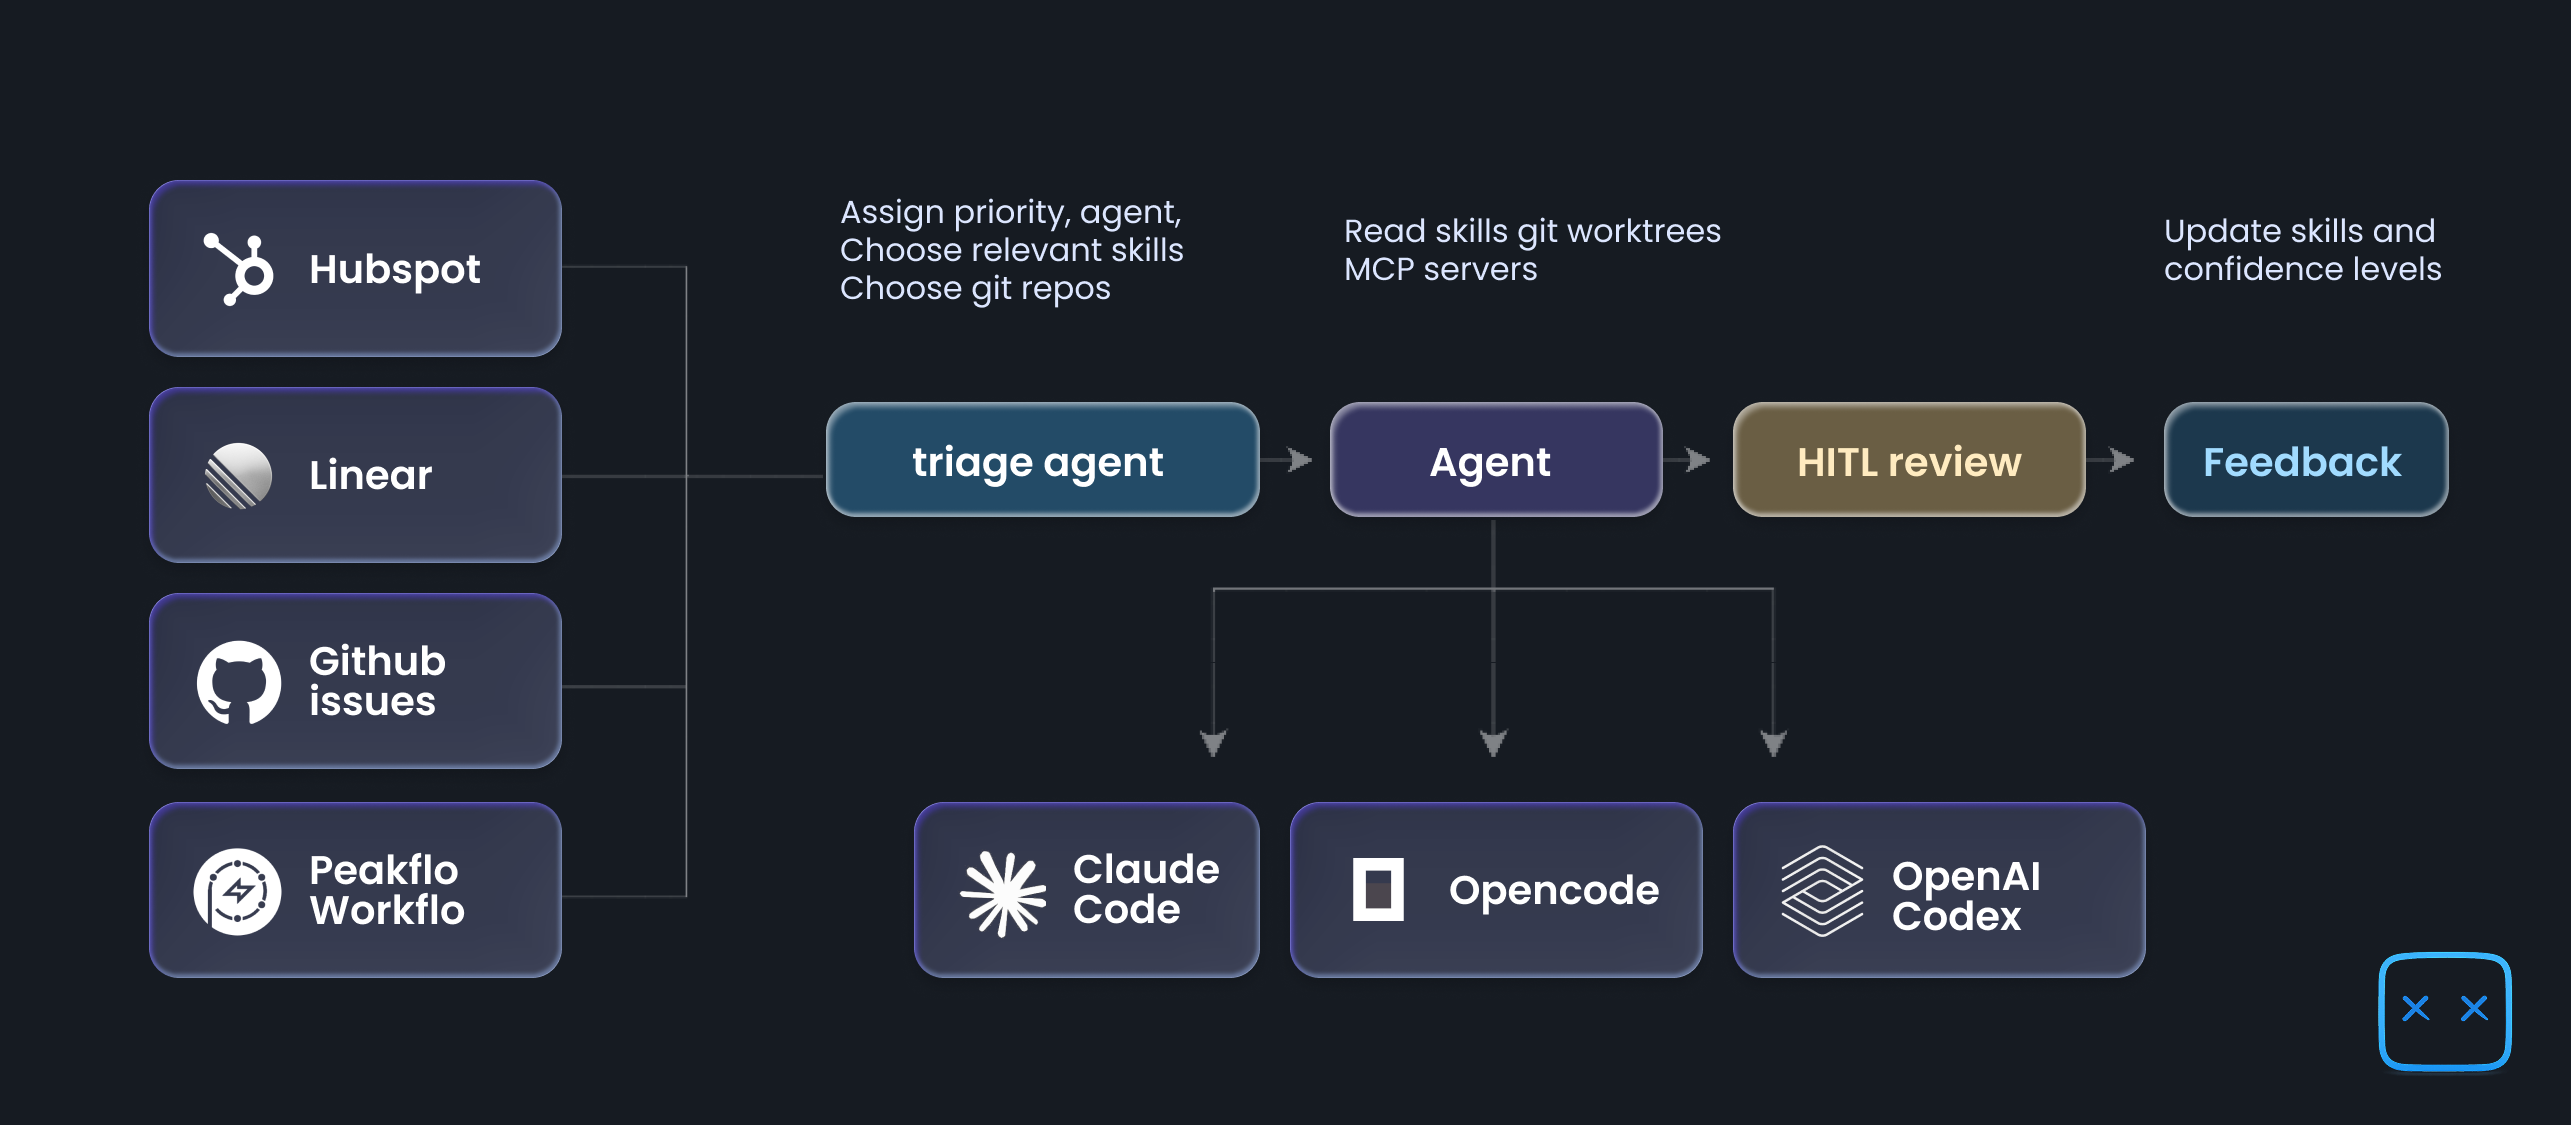
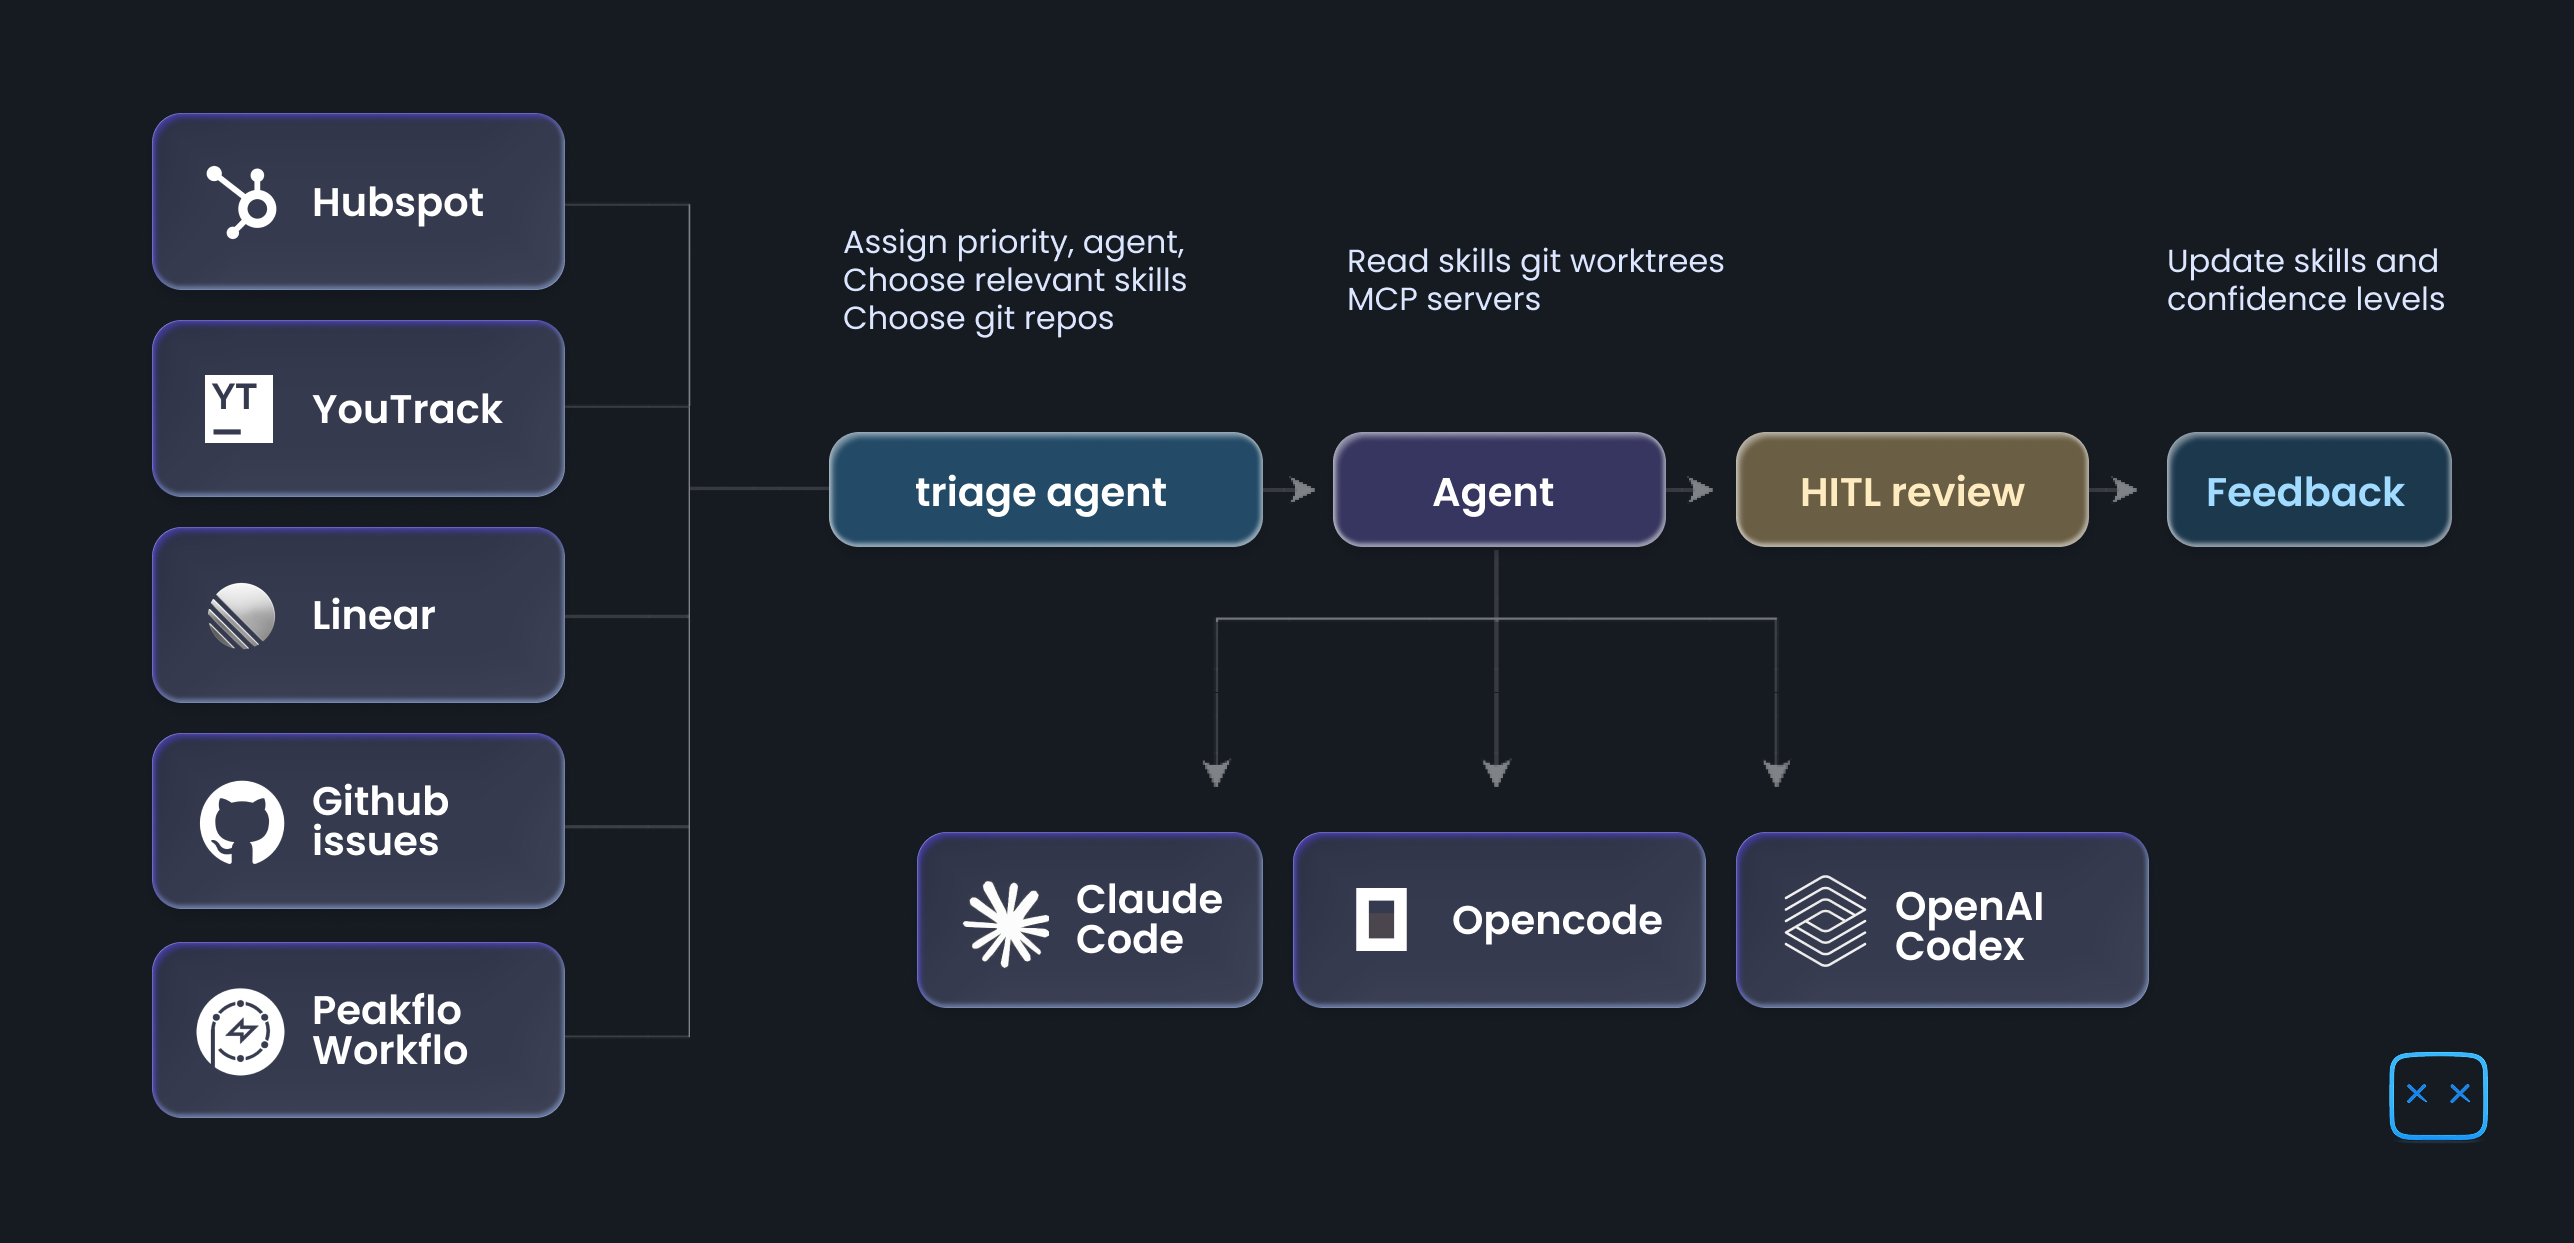
docs: update README with new features and refreshed visuals
Reflect recently shipped functionality including Dashboard workspace,
GitLab/YouTrack/Notion/GitHub Issues integrations, subtask support,
Windows/Linux platform support, task snoozing, heartbeat monitoring,
skills 2-way sync, and new agent models. Replace process and
integrations diagrams with updated visuals. Update platform badge
and build commands for cross-platform support.

diff --git a/README.md b/README.md
@@ -6,12 +6,12 @@
 
 [![License: MIT](https://img.shields.io/badge/License-MIT-yellow.svg)](./LICENSE)
 [![Version](https://img.shields.io/github/package-json/v/peakflo/20x)](./package.json)
-[![Platform](https://img.shields.io/badge/platform-macOS-lightgrey.svg)](.)
+[![Platform](https://img.shields.io/badge/platform-macOS%20%7C%20Windows%20%7C%20Linux-lightgrey.svg)](.)
 [![Discord](https://img.shields.io/badge/Discord-Join%20us-5865F2?logo=discord&logoColor=white)](https://discord.gg/fUVsqTWDxX)
 
 **One app. All your tasks. Powered by AI agents.**
 
-20x is a desktop app that turns your task list into an AI-powered workforce. Connect your tools — Linear, HubSpot, Peakflo — assign tasks to AI agents, and watch them work in real time.
+20x is a desktop app that turns your task list into an AI-powered workforce. Connect your tools — Linear, HubSpot, YouTrack, GitLab, Notion, Peakflo — assign tasks to AI agents, and watch them work in real time.
 
 **No cloud. No subscriptions. Everything runs on your machine.**
 
@@ -30,60 +30,87 @@ Most AI tools make you copy-paste context between tabs. 20x flips it: **your tas
 ## How It Works
 
 <p align="center">
-  <img src="resources/process.png" alt="20x process: Hubspot, Linear, Github issues, Workflo → 20x ↔ Github, MCP → Claude Code, Opencode, OpenAI Codex; Skills automatically improved" />
+  <img src="resources/process.png" alt="20x process: Hubspot, YouTrack, Linear, Github issues, Peakflo Workflo → triage agent → Agent (Claude Code, Opencode, OpenAI Codex) → HITL review → Feedback" />
 </p>
 
-1. **Tasks flow in** — from Task sources (Linear, Hubspot, Github, Workflo) or created manually
-2. **Triage agent** — Assigns Coding agent (Claude Code, OpenCode, or Codex), relevant skills
-3. **Agent works the task** — with live streaming output, Questions and HITL support 
-4. **You stay in control** — approve, review, merge
-5. **Feedback loop** — Agent creates updates the skills after task is completed
+1. **Tasks flow in** — from Linear, YouTrack, HubSpot, GitHub Issues, Notion, Peakflo Workflo, or created manually
+2. **Triage agent** — Assigns priority, coding agent (Claude Code, OpenCode, or Codex), relevant skills, and git repos
+3. **Agent works the task** — reads skills, git worktrees, and MCP servers; streams output in real time
+4. **HITL review** — Agents pause for human approval before risky actions
+5. **Feedback loop** — Skills and confidence levels are automatically updated after completion
 
 ## Features
 
 <p align="center">
-  <img src="resources/integrations.png" alt="20x integrations: Hubspot, Linear, Github issues, Workflo → 20x ↔ Github, MCP → Claude Code, Opencode, OpenAI Codex; Skills automatically improved" />
+  <img src="resources/integrations.png" alt="20x integrations: Hubspot, YouTrack, Linear, Github issues, Peakflo Workflo → 20x ↔ GitLab, Github, MCP → Claude Code, Opencode, OpenAI Codex; Skills automatically improved" />
 </p>
 
+### 📊 Dashboard Workspace
+- **Overview dashboard** — See task completion stats, AI autonomy metrics, and agent success rates at a glance
+- **Kanban task board** — Tasks grouped by status with drag-and-drop support
+- **Workflow applications** — Launch and manage workflow apps directly from the dashboard
+- **Presetup wizard** — Guided templates to get started quickly with new applications
+
 ### 🤖 Multi-Agent Support
-- **Claude Code** — Anthropic's official agent SDK
+- **Claude Code** — Anthropic's official agent SDK (Claude Sonnet 4.6)
 - **OpenCode** — Open-source coding agent
-- **Codex** — Zed Industries' agent framework
-- **Live transcripts** — Watch agents think and work in real time
+- **Codex** — OpenAI's agent framework (GPT-5.4)
+- **Live transcripts** — Watch agents think and work in real time with message counts
 - **Human-in-the-loop** — Approve risky actions before execution
+- **Task progress tracking** — Real-time progress events during agent execution
 
 ### 🔗 Smart Integrations
 - **Linear** — Pull issues, update status, post comments
 - **HubSpot** — Sync tickets and workflows
-- **Peakflo** — Connect your Peakflo tasks
+- **YouTrack** — Connect JetBrains YouTrack projects and tasks
+- **GitLab** — Full GitLab integration for task sourcing and repositories
+- **Notion** — Sync Notion databases with full property and attachment support
+- **Peakflo** — Connect your Peakflo Workflo tasks
+- **GitHub Issues** — Pull issues directly from GitHub repositories
 - **OAuth built-in** — Secure authentication flows
 
 ### 🧠 Skills System
 - **Reusable instructions** — Create skill templates for common patterns
 - **Auto-learning** — Agents update skills based on feedback
 - **Confidence tracking** — Skills improve over time
+- **2-way sync** — Skills synchronize bidirectionally between 20x and Workflo
+- **Searchable skills** — Quickly find skills with built-in search
 
 ### 🛠 Developer-First
 - **Git worktree management** — Isolated branches per task
-- **Repository context** — Agents know which repos to work on
-- **MCP servers** — Connect Model Context Protocol tools
+- **Repository context** — Agents know which repos to work on (GitHub & GitLab)
+- **MCP servers** — Connect Model Context Protocol tools with auto-registration
 - **Local-first** — SQLite database, no cloud required
 
 ### 📋 Task Management
+- **Subtasks** — Break tasks into subtasks with ordering and drag-and-drop reordering
 - **Recurring tasks** — Daily, weekly, monthly schedules
+- **Task snoozing** — Snooze tasks and have them resurface at the right time
 - **Rich metadata** — Types, priorities, due dates, labels
 - **File attachments** — Add context files to tasks
 - **Output fields** — Structured task results
 - **Smart search** — Find anything fast
 
+### 💓 Heartbeat Monitoring
+- **Enterprise heartbeat** — Continuous health checks with GitHub preflight
+- **CI failure detection** — Automatically detect CI pipeline failures
+- **State syncing** — Keep task state in sync across sessions
+
 ## Getting Started
+
+### Supported Platforms
+
+- **macOS** — Full support
+- **Windows** — Full support
+- **Linux** — AppImage installer
 
 ### Prerequisites
 
 - **Node.js** >= 22
 - **pnpm** >= 9
 - **Git** (for worktree features)
-- **GitHub CLI** (optional, for repo features)
+- **GitHub CLI** (optional, for GitHub repo features)
+- **GitLab CLI** (optional, for GitLab repo features)
 
 ### Installation
 
@@ -137,6 +164,8 @@ pnpm test
 
 # Build for distribution
 pnpm run build:mac    # macOS
+pnpm run build:win    # Windows
+pnpm run build:linux  # Linux
 ```
 
 ## Architecture
@@ -219,15 +248,26 @@ We welcome contributions! Here's how:
 ## Roadmap
 
 ### Planned
-- Additional integrations (Jira, Asana, GitHub Issues, Notion)
+- Additional integrations (Jira, Asana)
 - Team collaboration (shared task sources)
 - Cost tracking (token usage per session)
 - Agent templates (pre-configured profiles)
 - Plugin marketplace (community skills)
-- Desktop notifications
 - Light theme
 
 ### Recently Shipped
+- ✅ Dashboard workspace with Kanban board and workflow apps
+- ✅ Subtask support with ordering and drag-and-drop
+- ✅ GitLab integration (task sourcing & repositories)
+- ✅ YouTrack integration
+- ✅ Notion integration with full property support
+- ✅ GitHub Issues integration
+- ✅ Windows and Linux platform support
+- ✅ Task snoozing
+- ✅ Skills 2-way sync with Workflo
+- ✅ Heartbeat monitoring with CI failure detection
+- ✅ Presetup wizard and dashboard templates
+- ✅ Claude Sonnet 4.6 and GPT-5.4 model support
 - ✅ Multi-agent support (OpenCode, Claude Code, Codex)
 - ✅ Skills system with auto-learning
 - ✅ Recurring tasks
